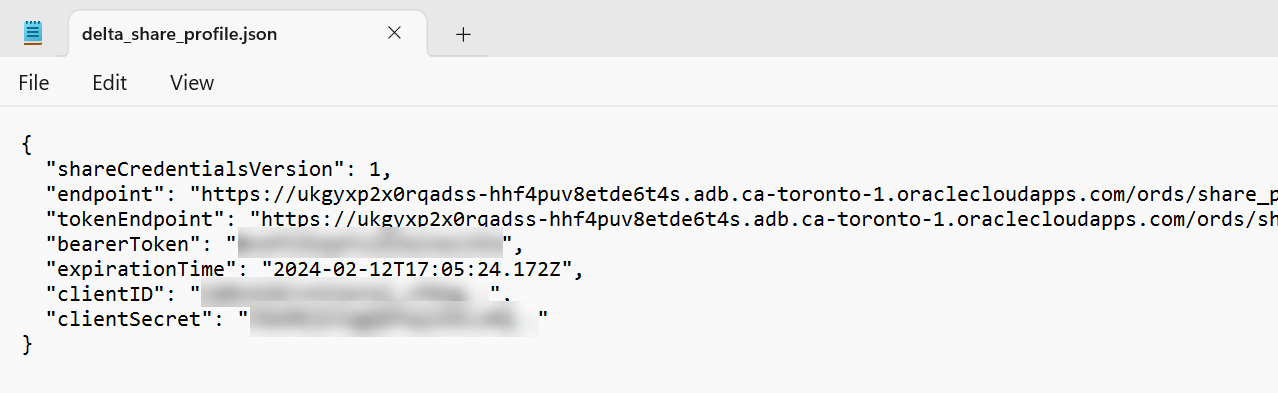
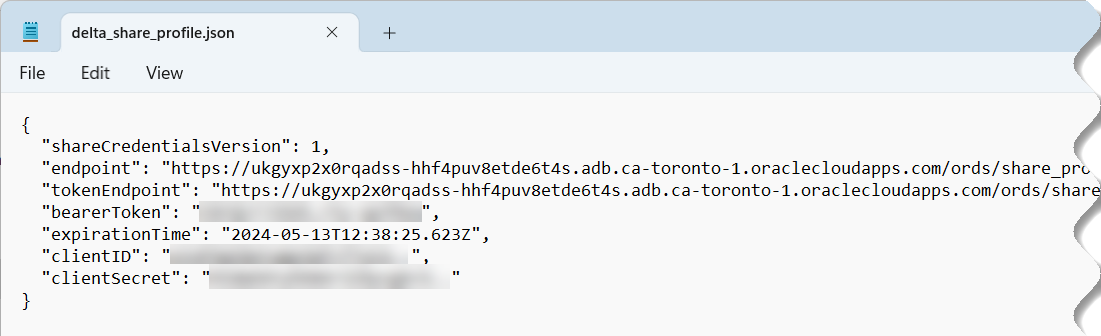
PM's 1 feedback

diff --git a/shared/adw-data-lake/use-data-sharing-data-studio/create-share/create-share.md b/shared/adw-data-lake/use-data-sharing-data-studio/create-share/create-share.md
@@ -6,7 +6,7 @@ A data share is a named entity in the provider’s instance. It can be a group o
 
 In this lab, as a share provider user, you will create a data share and add a table to it. Next, you will create a new recipient that will have access to this data share. Finally, you will publish the data share and send the recipient the activation link needed to access the data share.
 
- ![Create a data share diagram.](images/data-share-diagram.png)
+ ![Create a data share diagram.](images/data-share-diagram.png =55%x*)
 
 Estimated Time: 15 minutes
 
@@ -86,27 +86,31 @@ As the **`share_provider`** user, create a new data share named **`training_shar
 
     ![Create a new recipient.](images/create-recipient.png)
 
-7. In the **Create Share Recipient** panel, enter **`training_recipient`** as the name of the recipient, an optional description, and the recipient's email address. Next, click **Create** to create the new recipient.
+7. In the **Create Share Recipient** panel, enter **`training_recipient`** as the name of the recipient, an optional description, and the recipient's email address. Next, click **Show Advanced Options**.
 
-    ![Create the new recipient.](images/click-create-recipient.png)
+    ![Create the new recipient and show advanced options.](images/create-recipient-advanced-options.png =50%x*)
 
-8. The new recipient is displayed in the **Create Share** page.
+8. In the **User token lifetime** section, modify the **TOKEN_LIFETIME** for the **`training_user`** recipient to **90** days. This property specifies for how long the generated token will be valid after which the recipient loses access to the data share and must request a new token. Enter **90** in the first text field. Select **Days** from the drop-down menu. Next, click **Create** to create the new recipient.
 
-    ![The recipient is created.](images/recipient-created.png)
+    ![Create the new recipient.](images/click-create-recipient.png =50%x*)
 
-9. Click **Create** to create and publish the data share. The **Provide Share** page is displayed. Two information boxes are displayed briefly to indicate that the share is created and that publishing is in progress. The **training_share** is displayed along with its details such as the entity type, owner, shared objects, and the recipients. Note the status of the share is **Unpublished**. It will take a few minutes to publish it depending on the size of the table in the share.
+9. The new recipient is displayed in the **Create Share** page.
+
+    ![The recipient is created.](images/recipient-created.png =60%x*)
+
+10. Click **Create** to create and publish the data share. The **Provide Share** page is displayed. Two information boxes are displayed briefly to indicate that the share is created and that publishing is in progress. The **training_share** is displayed along with its details such as the entity type, owner, shared objects, and the recipients. Note the status of the share is **Unpublished**. It will take a few minutes to publish it depending on the size of the table in the share.
 
     ![The data share is created.](images/share-created.png)
 
-10. An email message that will be sent to the recipient is automatically generated and displayed. This email message contains the _personal authorization profile_ (activation link) URL that the recipient will use to download the **`delta_share_profile.json`** configuration file. This file is required to access the data share in the next lab. In our example, we are using Microsoft Outlook as the email client. Click **Send** to send the email to the recipient.
+11. An email message that will be sent to the recipient is automatically generated and displayed. This email message contains the _personal authorization profile_ (activation link) URL that the recipient will use to download the **`delta_share_profile.json`** configuration file. This file is required to access the data share in the next lab. In our example, we are using Microsoft Outlook as the email client. Click **Send** to send the email to the recipient.
 
     ![Click send email.](images/activation-email.png)
 
-11. After a few minutes, click the **Reload** icon to refresh the page. The status of the **training_share** is now **Published**.
+12. After a few minutes, click the **Reload** icon to refresh the page. The status of the **training_share** is now **Published**.
 
     ![The data share is published.](images/share-published.png)
 
-12. Click the **RECIPIENTS** tile. The **`training_recipient`** is displayed along with its details.
+13. Click the **RECIPIENTS** tile. The **`training_recipient`** is displayed along with its details.
 
     ![Click the recipients tile.](images/click-recipients-tile.png)
 
@@ -114,7 +118,7 @@ As the **`share_provider`** user, create a new data share named **`training_shar
 
     ![Versioned share type.](images/versioned-share-type.png)
 
-13. Log out of the **`SHARE_PROVIDER`** user. On the **Oracle Database Actions | Data Share** banner, click the drop-down list next to the `SHARE_PROVIDER` user, and then select **Sign Out** from the drop-down menu. If you are prompted to leave, click **Leave**.
+14. Log out of the **`SHARE_PROVIDER`** user. On the **Oracle Database Actions | Data Share** banner, click the drop-down list next to the `SHARE_PROVIDER` user, and then select **Sign Out** from the drop-down menu. If you are prompted to leave, click **Leave**.
 
 You may now proceed to the next lab.
 
